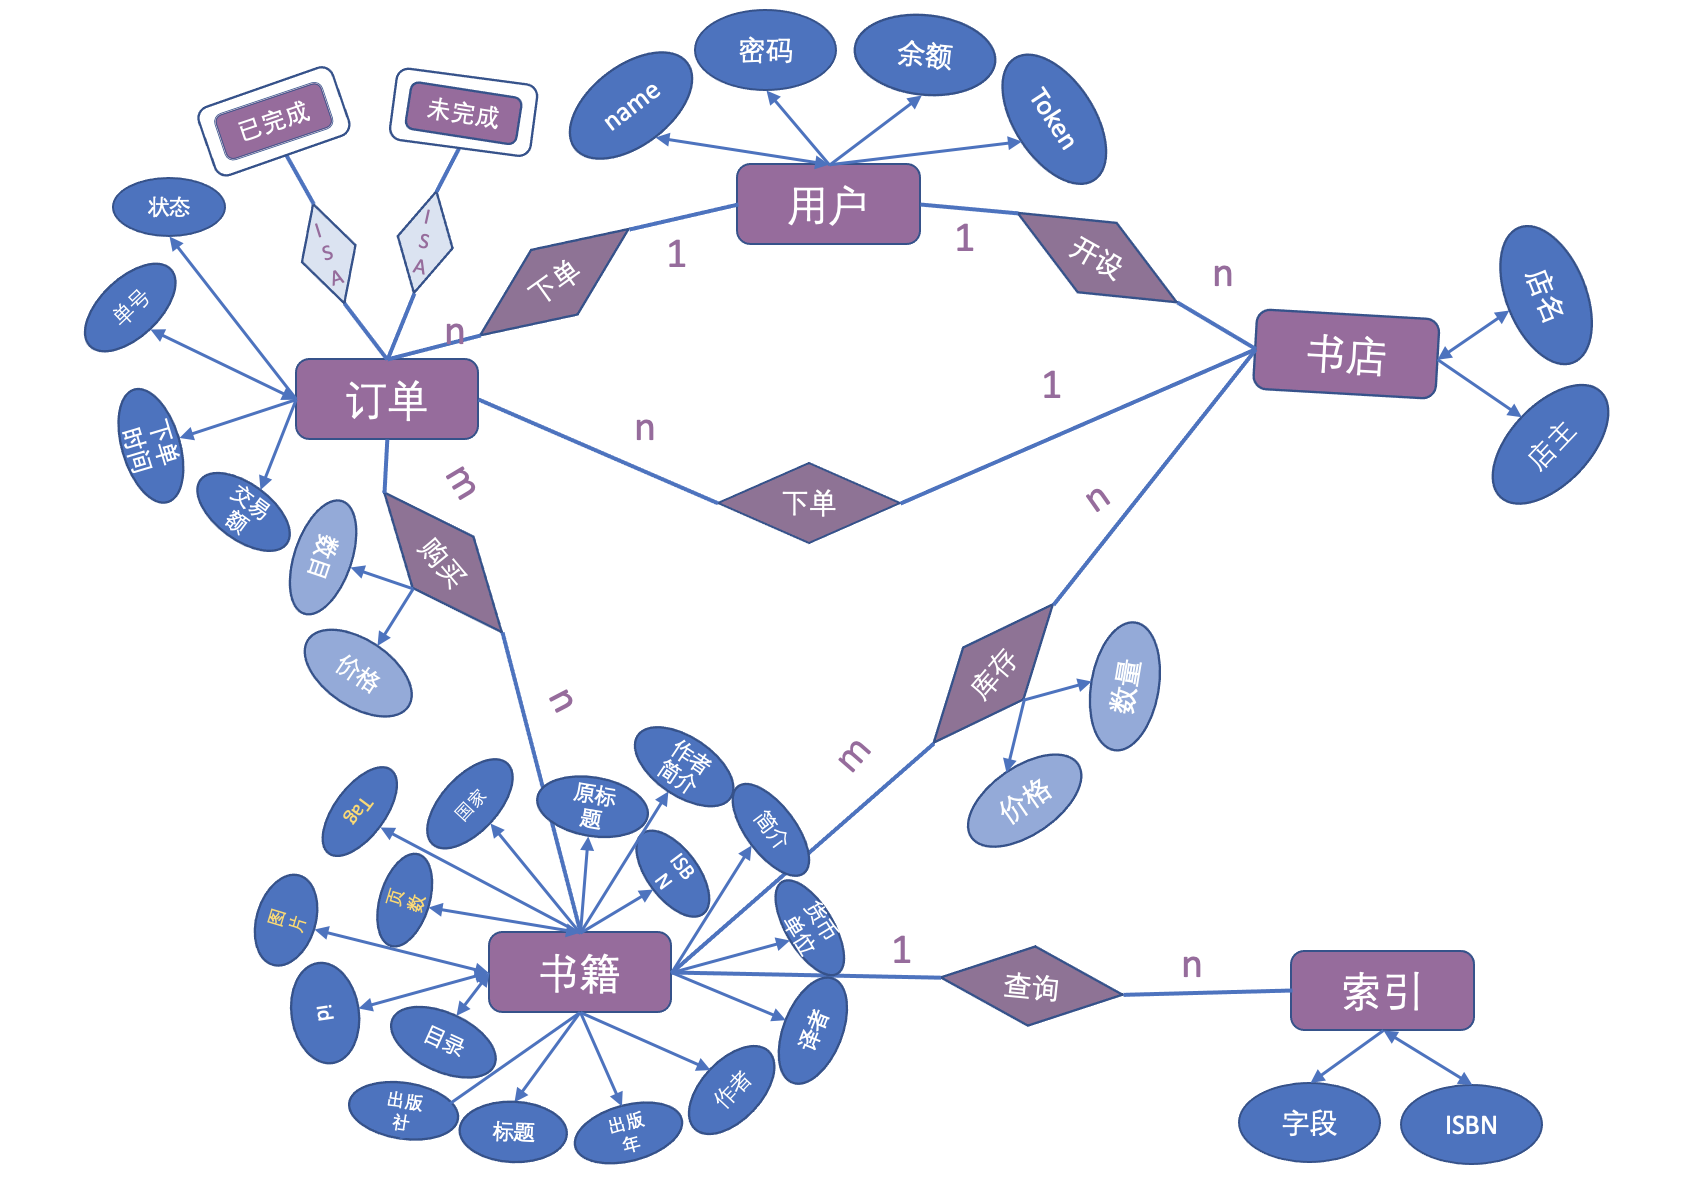
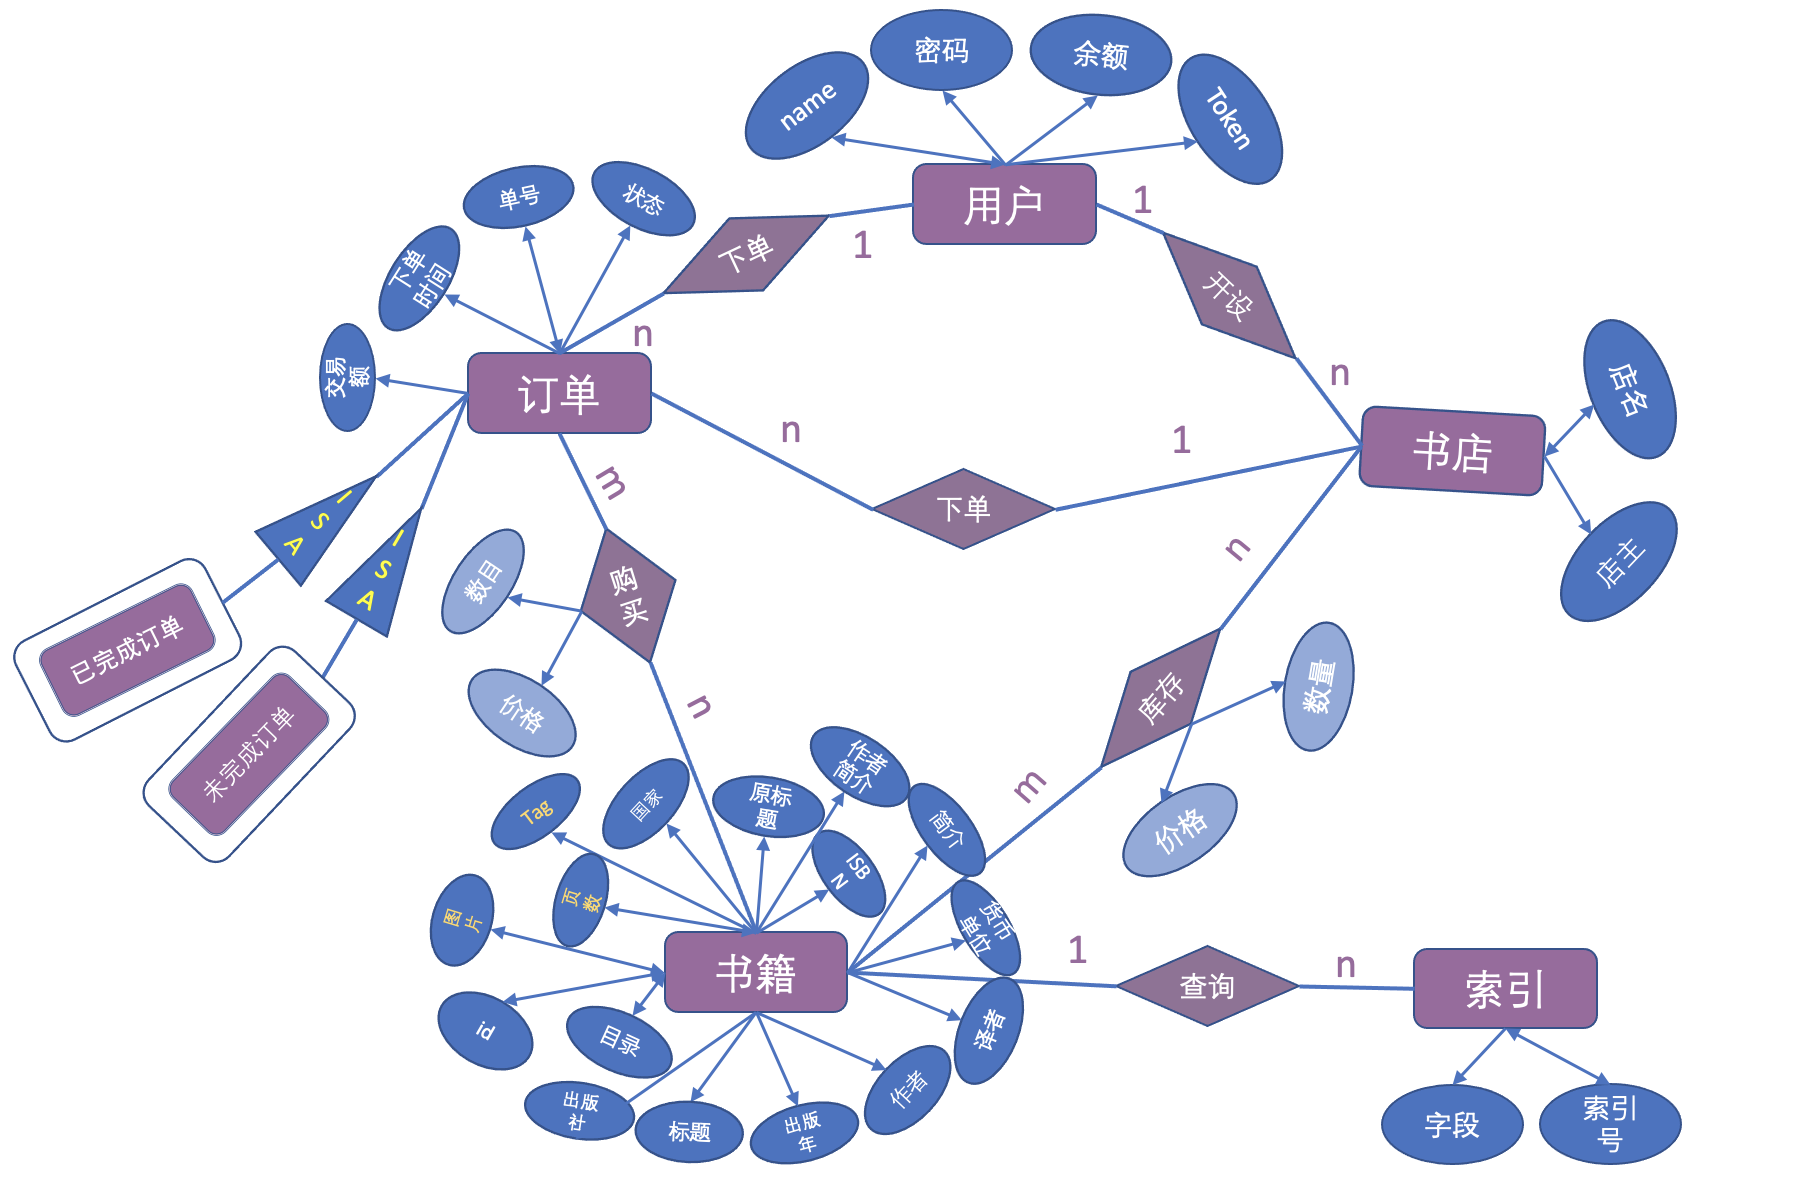
update ER and test coverage

diff --git a/README.md b/README.md
@@ -364,9 +364,13 @@ python app.py
 
 ### 6.1 利用pytest和coverage测试和评估代码
 
-* 
+除基础测试35个全部通过外，为进阶功能编写了35个测试，全部通过。
 
+* #### coverage test
 
+<img src="/Users/sunqiushi/Desktop/panzer/static/coverage-test1.png" alt="coverage-test1" style="zoom:66%;" />
+
+<img src="/Users/sunqiushi/Desktop/panzer/static/coverage-test2.png" alt="coverage-test2" style="zoom:66%;" />
 
 ### 6.2 测试接口&样例
 
